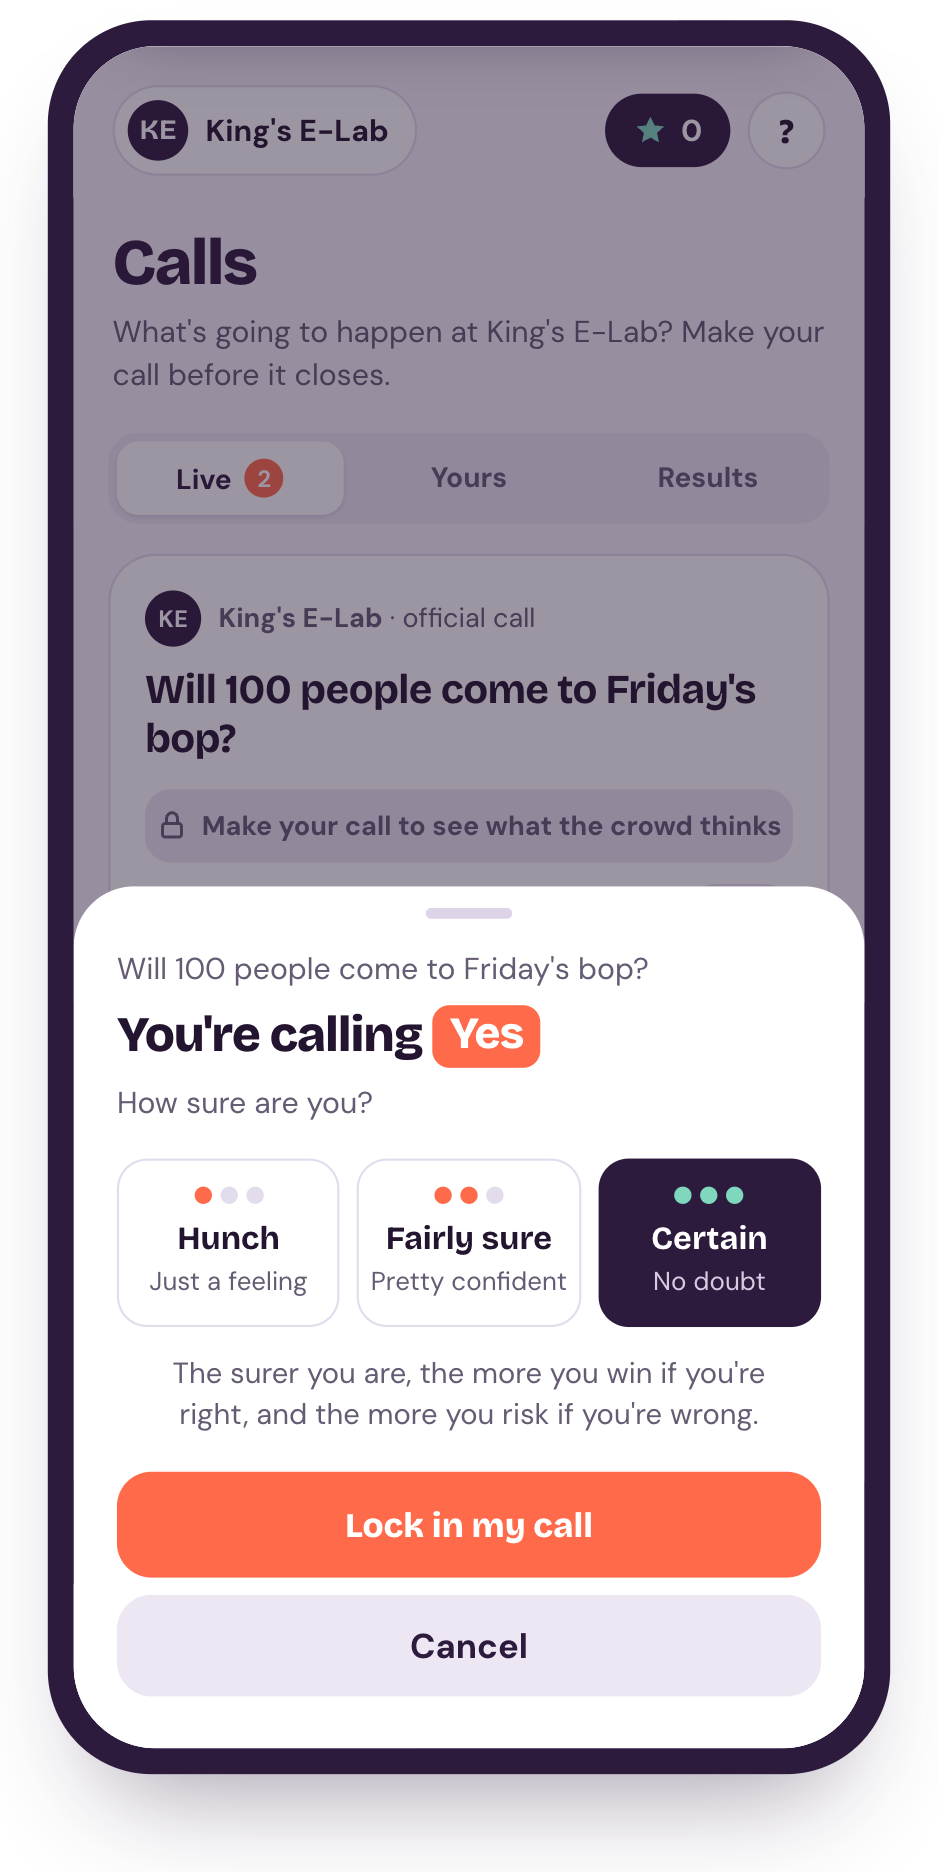
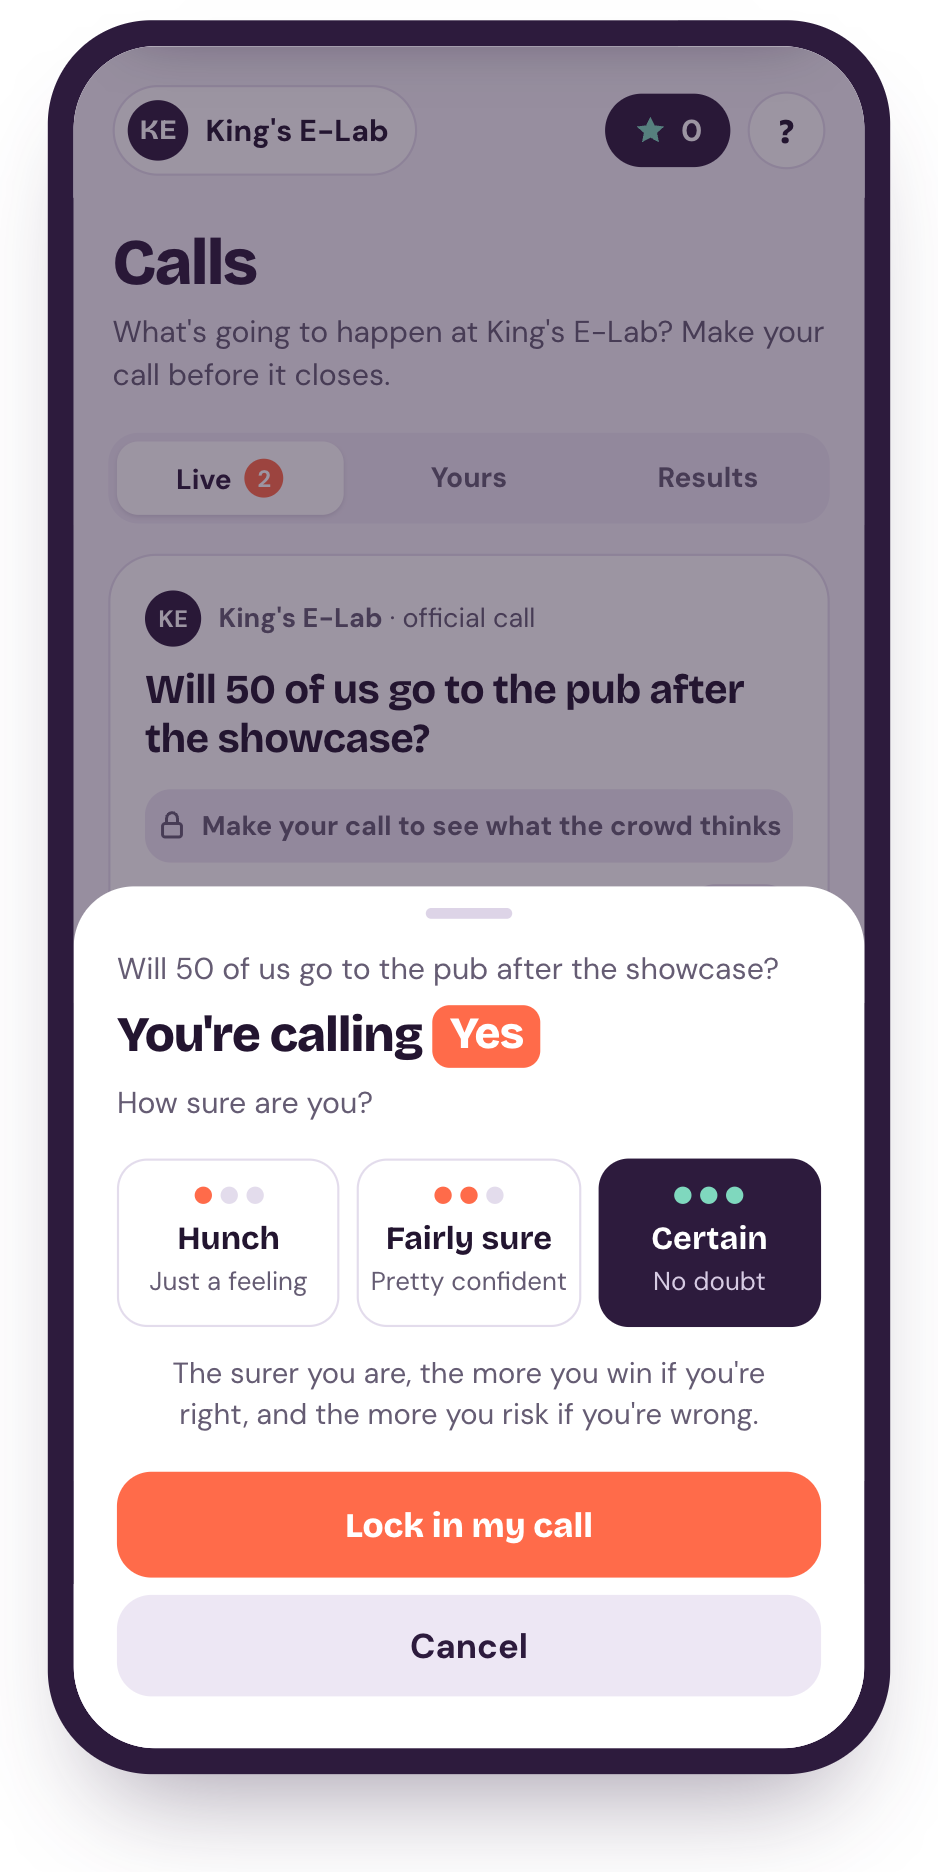
Pitch demo and screenshots: the example question is now the pub after the showcase

Changed region(s): [[0.1546, 0.3408, 0.8038, 0.4028], [0.1855, 0.4957, 0.8348, 0.5267]]

diff --git a/video/intro.html b/video/intro.html
@@ -146,7 +146,7 @@ html,body{margin:0;width:1920px;height:1080px;overflow:hidden;background:#EFEAF5
           <div class="seg"><button aria-pressed="true">Live <span class="seg-count" id="liveCount">2</span></button><button>Yours</button><button>Results</button></div>
           <article class="call" id="c1">
             <div class="call-meta"><span class="avatar" style="background:var(--plum)">KE</span><span><b>King's E-Lab</b> · official call</span></div>
-            <h3>Will 100 people come to Friday's bop?</h3>
+            <h3>Will 50 of us go to the pub after the showcase?</h3>
             <div class="chips" id="c1chips"><span class="chip">Result: Yes</span><span class="chip won">You called it: +20</span></div>
             <div class="bar bar-empty fc-locked" id="c1lock"><svg width="15" height="15" viewBox="0 0 24 24" fill="none" stroke="currentColor" stroke-width="2.2" stroke-linecap="round" stroke-linejoin="round"><rect x="5" y="11" width="14" height="10" rx="2"/><path d="M8 11V7a4 4 0 0 1 8 0v4"/></svg>Make your call to see what the crowd thinks</div>
             <div class="fc" id="c1fc">
@@ -199,7 +199,7 @@ html,body{margin:0;width:1920px;height:1080px;overflow:hidden;background:#EFEAF5
       <div class="scrim" id="scrim"></div>
       <div class="sheet" id="sheet" style="visibility:visible">
         <div class="grab"></div>
-        <p class="sheet-q">Will 100 people come to Friday's bop?</p>
+        <p class="sheet-q">Will 50 of us go to the pub after the showcase?</p>
         <h2>You're calling <span class="side-tag y">Yes</span></h2>
         <p class="lead">How sure are you?</p>
         <div class="conf">
@@ -218,7 +218,7 @@ html,body{margin:0;width:1920px;height:1080px;overflow:hidden;background:#EFEAF5
   <!-- big live forecast panel -->
   <div id="panel" class="abs">
     <div class="pm"><span class="avatar" style="background:var(--plum)">KE</span><span><b style="color:var(--ink)">King's E-Lab</b> · official call</span></div>
-    <h2>Will 100 people come to Friday's bop?</h2>
+    <h2>Will 50 of us go to the pub after the showcase?</h2>
     <div class="prow">
       <span id="pNum">50%</span>
       <div><div class="plive" id="pLive"><i id="pDot"></i><span id="pLiveTxt">Updated live</span></div><div class="pwhat">chance it happens</div></div>

diff --git a/video/demo.html b/video/demo.html
@@ -167,7 +167,7 @@ html,body{margin:0;width:1920px;height:1080px;overflow:hidden;background:#EFEAF5
           <div id="c0wrap" style="overflow:hidden">
             <article class="call" id="c0">
               <div class="call-meta"><span class="avatar" style="background:var(--coral)">S</span><span><b>Sam (you)</b> · just approved</span></div>
-              <h3>Will 100 people come to Friday's bop?</h3>
+              <h3>Will 50 of us go to the pub after the showcase?</h3>
               <div class="vote"><button class="yes">Yes</button><button class="no">No</button></div>
             </article>
           </div>
@@ -344,7 +344,7 @@ function curve(pts) {
 }
 
 // ---------- story data ----------
-const QUESTION = "Will 100 people come to Friday's bop?";
+const QUESTION = "Will 50 of us go to the pub after the showcase?";
 const HISTORY = [50, 53, 51, 55, 58];          // the crowd before you (revealed when you call)
 const INCOMING = [61, 64, 60, 66, 69, 71];     // new calls arriving while you watch
 const T_IN = k => 21.4 + k * .62;
